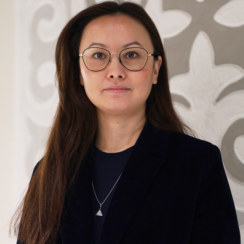
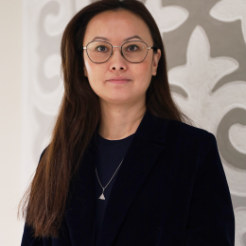
Spaces, 2 этаж; последнее фото команды кадрировано шире

diff --git a/index.html b/index.html
@@ -175,7 +175,7 @@ footer a{color:var(--gold2);text-decoration:none}
     <div class="meta">
       <div><small>Дата</small><span>15 января 2027<br>пятница</span></div>
       <div><small>Время</small><span>13:00 – 17:00</span></div>
-      <div><small>Место</small><span>Spaces<br>Астана, мкр. Самал, 11</span></div>
+      <div><small>Место</small><span>Spaces, 2 этаж<br>Астана, мкр. Самал, 11</span></div>
     </div>
     <div class="gift"><svg width="30" height="30" viewBox="0 0 32 32" fill="none" aria-hidden="true"><rect x="4" y="12" width="24" height="16" rx="2.5" fill="#121845"/><rect x="2.5" y="8" width="27" height="6" rx="2" fill="#2B35C8"/><rect x="14" y="8" width="4" height="20" fill="#E3BC62"/><path d="M16 8c-2-4-7-5-7-2s4 2 7 2zm0 0c2-4 7-5 7-2s-4 2-7 2z" stroke="#E3BC62" stroke-width="2" fill="none"/></svg><span><b>Участие бесплатное.</b> Это наш новогодний подарок вам — всё за&nbsp;счёт Finpark.</span></div>
     <a class="cta" href="#rsvp">Подтвердить участие <svg viewBox="0 0 20 20" fill="none"><path d="M10 4v12M4 10l6 6 6-6" stroke="currentColor" stroke-width="2.2" stroke-linecap="round" stroke-linejoin="round"/></svg></a>
@@ -263,7 +263,7 @@ footer a{color:var(--gold2);text-decoration:none}
     <div class="done" aria-live="polite">
       <svg width="64" height="64" viewBox="0 0 64 64" fill="none" aria-hidden="true"><circle cx="32" cy="32" r="30" fill="#2B35C8"/><path d="M20 33l8 8 16-17" stroke="#F6DC9A" stroke-width="4" stroke-linecap="round" stroke-linejoin="round"/></svg>
       <h3 id="doneTitle">Спасибо! Ждём вас 15 января</h3>
-      <p id="doneText">13:00, Spaces, Астана, мкр. Самал, 11. Накануне ваш финдиректор напомнит о встрече.</p>
+      <p id="doneText">13:00, Spaces (2 этаж), Астана, мкр. Самал, 11. Накануне ваш финдиректор напомнит о встрече.</p>
     </div>
   </form>
 </div></section>
